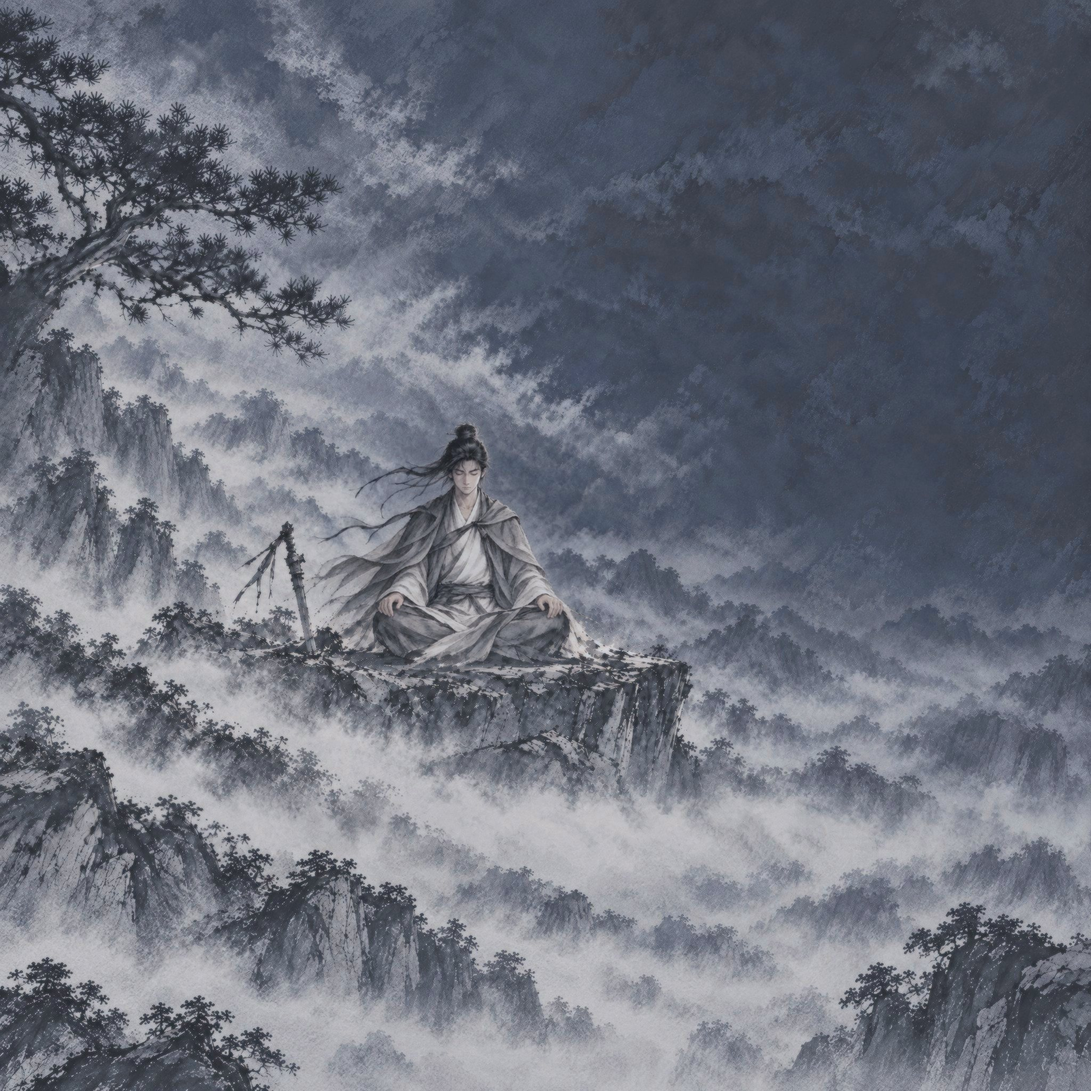
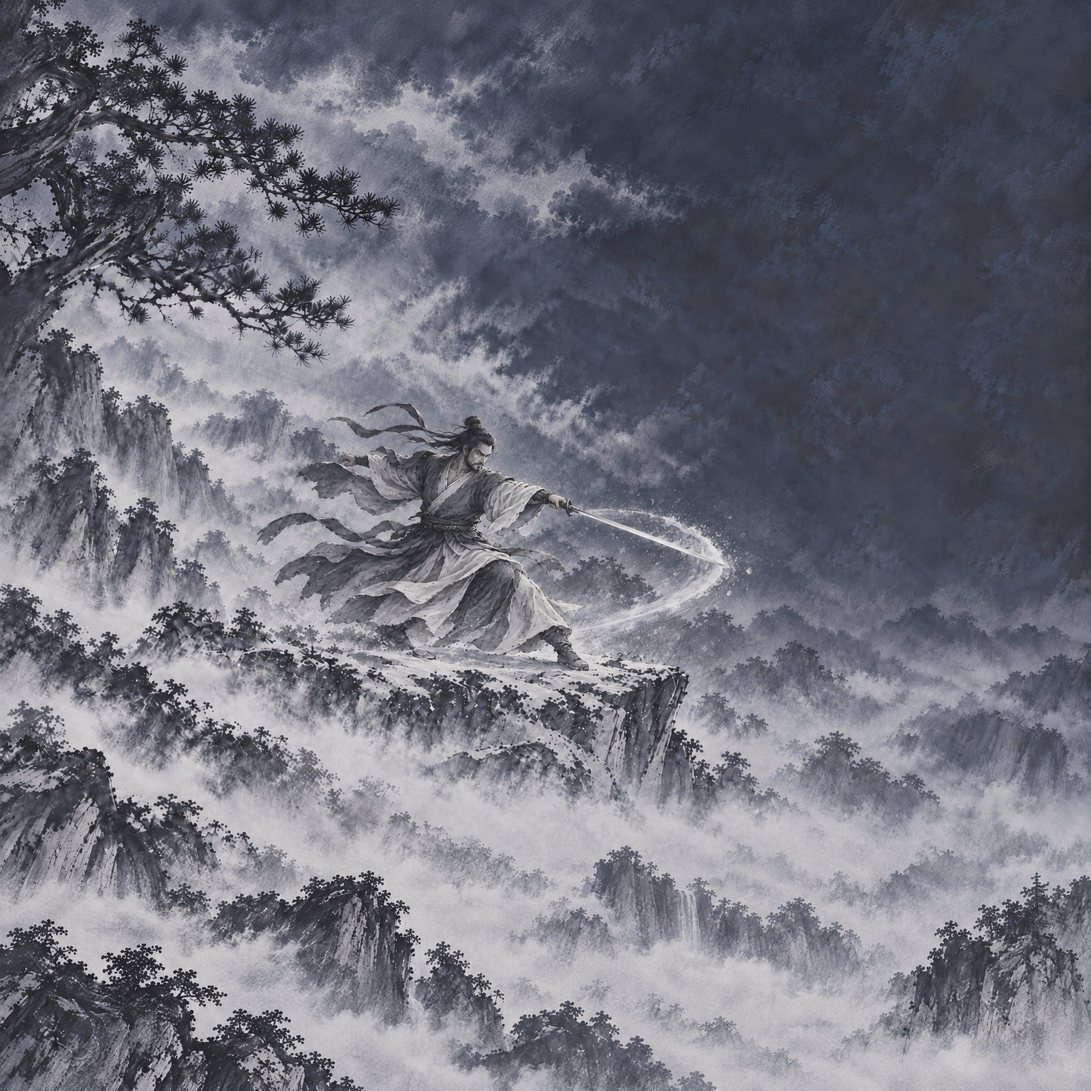
docs(bag-wugong): 武功底图定为崖边舞剑（男性剑客、比例校正），删候选图

diff --git a/docs/design/bag-wugong-prototype.html b/docs/design/bag-wugong-prototype.html
@@ -195,8 +195,7 @@ button { font: inherit; color: inherit; }
 #sc-wg { --wgf: var(--font-body); }
 #sc-wg .pic, #sc-wg .pic * { font-family: var(--font-body) !important; }
 #sc-wg .pic .ttl { font-family: 'Ma Shan Zheng', var(--font-display) !important; font-weight: 400; }
-/* 候选底图只有 16:9 一段，预览时不伸出上下 */
-#wgBg.opt { top: 0; height: 100%; }
+
 .attrs5 .bar { height: 7px; border-radius: 4px; background: oklch(0.2 0.01 262 / .6); overflow: hidden; }
 .attrs5 .bar i { display: block; height: 100%; border-radius: 4px; background: linear-gradient(90deg, oklch(0.85 0.01 85), oklch(0.75 0.01 85)); }
 .attrs5 .v { text-align: right; letter-spacing: 0; color: oklch(0.88 0.01 85); }
@@ -445,16 +444,9 @@ const tip = $('tip');
 document.addEventListener('mouseover', (e) => { const t = e.target.closest('[data-tip]'); if (!t || !t.dataset.tip) return; tip.innerHTML = t.dataset.tip; tip.classList.add('on');
   const r = t.getBoundingClientRect(); tip.style.left = `${Math.max(8, Math.min(innerWidth - tip.offsetWidth - 8, r.left + r.width / 2 - tip.offsetWidth / 2))}px`; tip.style.top = `${r.bottom + 8}px`; });
 document.addEventListener('mouseout', (e) => { if (e.target.closest('[data-tip]')) tip.classList.remove('on'); });
-const icv = document.createElement('span'); icv.id = 'icv'; icv.style.display = 'none';
-const BGS = [['cur', '现版 · 松崖打坐'], ['bamboo', '竹林练剑 1'], ['bamboo-1', '竹林练剑 2'], ['fall', '瀑下推掌 1'], ['fall-1', '瀑下推掌 2'], ['snow', '崖边舞剑 1'], ['snow-1', '崖边舞剑 2'], ['stele', '残碑木桩 1'], ['stele-1', '残碑木桩 2']];
-icv.innerHTML = '｜武功底图 ' + BGS.map(([k, n], i) => `<button data-v="${k}" class="${i ? '' : 'on'}">${n}</button>`).join('');
-$('proto').appendChild(icv);
-icv.querySelectorAll('button').forEach((b) => b.onclick = () => { const v = b.dataset.v; $('wgBg').classList.toggle('opt', v !== 'cur');
-  $('wgBg').style.backgroundImage = `url('../../code/public/art/wugong/${v === 'cur' ? 'bg-tall' : 'opt/' + v}.jpg')`; icv.querySelectorAll('button').forEach((x) => x.classList.toggle('on', x === b)); });
 document.addEventListener('click', () => { tip.classList.remove('on'); if (sel) { sel = null; drawBag(); } });
 document.addEventListener('keydown', (e) => { if (e.key === 'Escape' && sel) { sel = null; drawBag(); } });
 function show(p) { page = p; document.querySelectorAll('#nav button[data-p]').forEach((b) => b.classList.toggle('on', b.dataset.p === p));
-  $('icv').style.display = p === 'wg' ? '' : 'none';
   $('sc-bag').classList.toggle('off', p !== 'bag'); $('sc-wg').classList.toggle('off', p !== 'wg'); p === 'bag' ? drawBag() : drawWg(); }
 document.querySelectorAll('#nav button[data-p]').forEach((b) => b.onclick = () => show(b.dataset.p));
 

diff --git a/changelog.d/feature-bag-wugong-redesign.md b/changelog.d/feature-bag-wugong-redesign.md
@@ -9,3 +9,4 @@
 - **武功原型第三轮**：类别图标定为甲组墨圆，下沿装配圈同套；武功、行囊与修炼底图里的人物按原位重绘为连续笔触（去掉碎斑点与白色描边光晕）；招式圆固定大小，超过四式折成两行、题跋与属性随之让位；目录名、批注、属性名三处字体可在原型状态栏切换（文楷 / 宋体 / 马善政 / 小薇）对比。
 - **武功原型第四轮**：武功页画上文字一律霞鹜文楷（去掉字体切换）；内功详情在名字下写「第 N 重 · 主修 / 转修后 · 最高至某境」；底图按战斗舆图与行囊的观感调色（反差 50 → 39、冷蓝灰调 b −1.5 → −7、饱和 6% → 14%），旧版留作 `bg-v1.jpg` 并可在原型状态栏切换对比。
 - **武功原型第五轮**：选中武学的大字名改回马善政；为避免与修炼页「崖上打坐」雷同，按现版构图分区与冷灰调出四个演武候选底图（竹林练剑、瀑下推掌、崖边舞剑、残碑木桩，各两张，`art/wugong/opt/`），原型状态栏可切换对比。
+- **武功底图定稿「崖边舞剑」**：改为男性剑客、按正常人体比例重画（原图人物偏瘦长），连续笔触；上下续画铺满舞台。候选底图与旧版底图删除。
